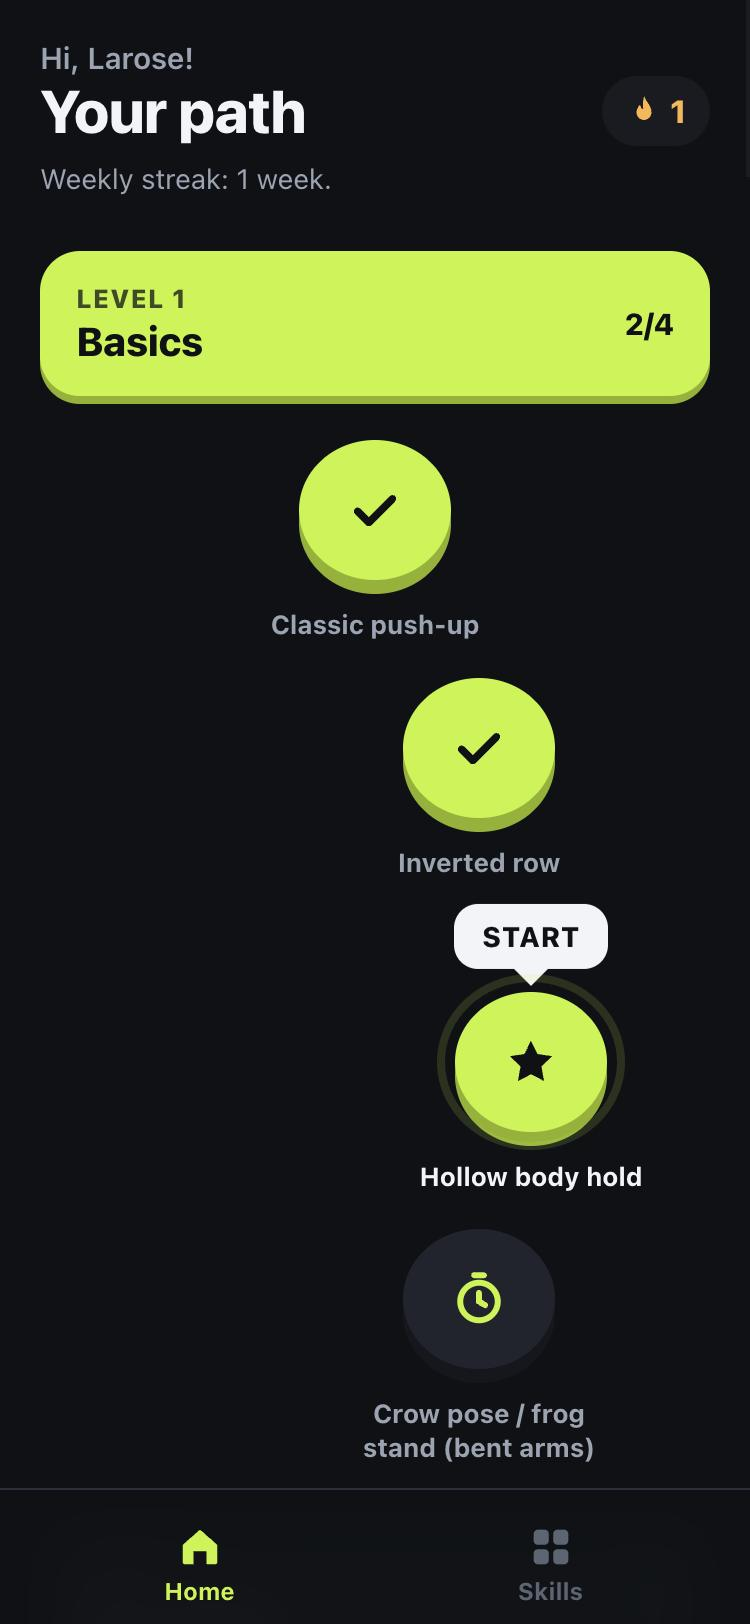
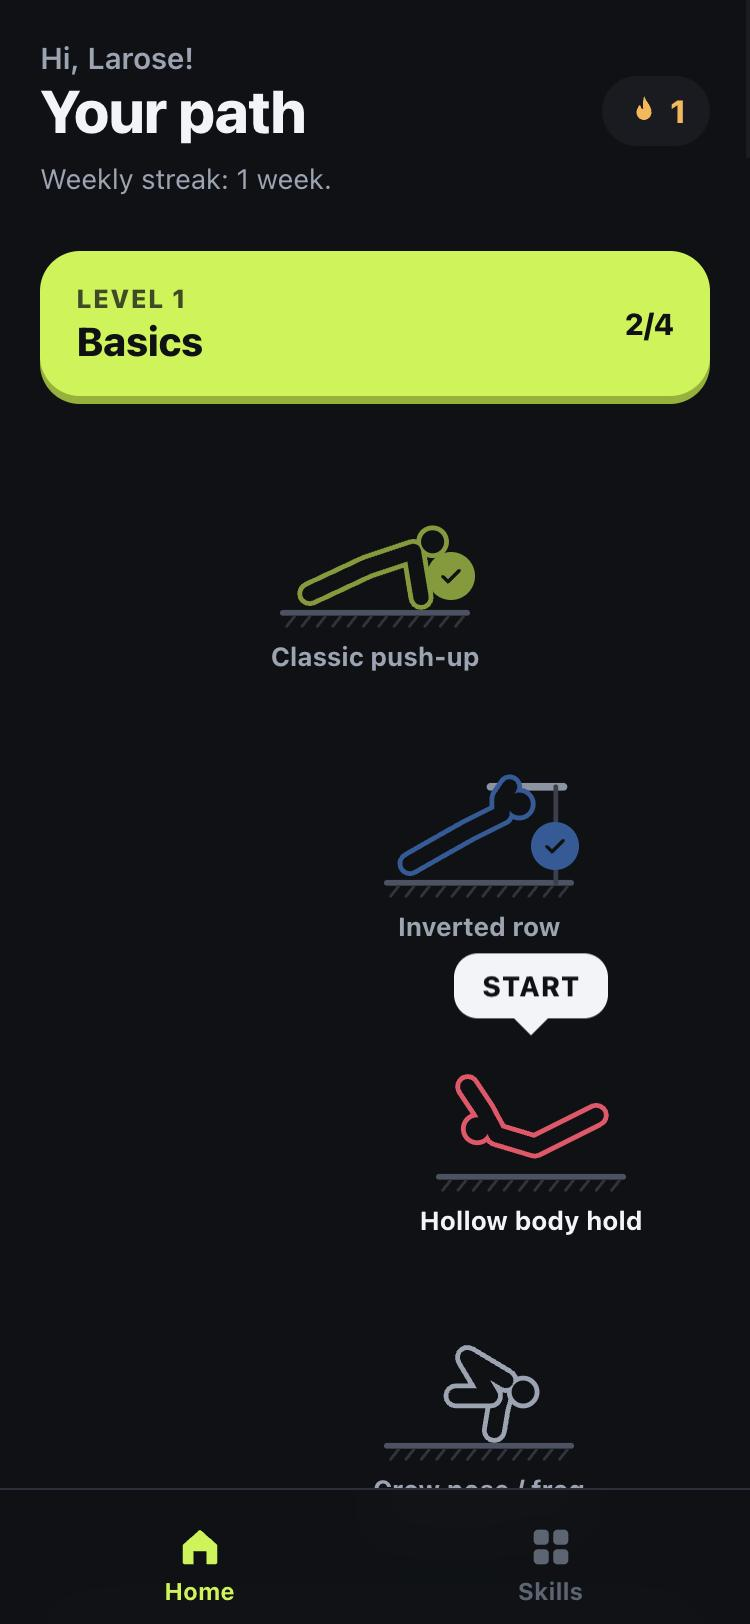
docs: update screenshots for skill figures

Changed region(s): [[0.368, 0.2463, 0.8587, 0.9236]]

diff --git a/README.md b/README.md
@@ -18,7 +18,7 @@ It runs in the browser. There is nothing to install, and **no images or video le
 - **Pose detection in the browser** with MediaPipe: the camera image is analyzed on your device and never uploaded
 - **Rep counting and hold timer**, including partial reps that do not reach the full range
 - **Form score and summary** after each set, with the most common errors
-- **Skill path** with 7 levels and 51 skills, from the classic push-up to the iron cross, shown as a road you move down step by step
+- **Skill path** with 7 levels and 51 skills, from the classic push-up to the iron cross, shown as a road of outline figures in each pose (each skill gets its own color once you reach it)
 - **Free choice of skills** in the Skills tab (search and level filter), with a safety hint when a skill belongs to a level you have not unlocked yet
 - **Coach warning** for high-risk skills (hefesto, iron cross, one-arm muscle-up, maltese, victorian)
 - **Progress and weekly streak**, saved in your browser
